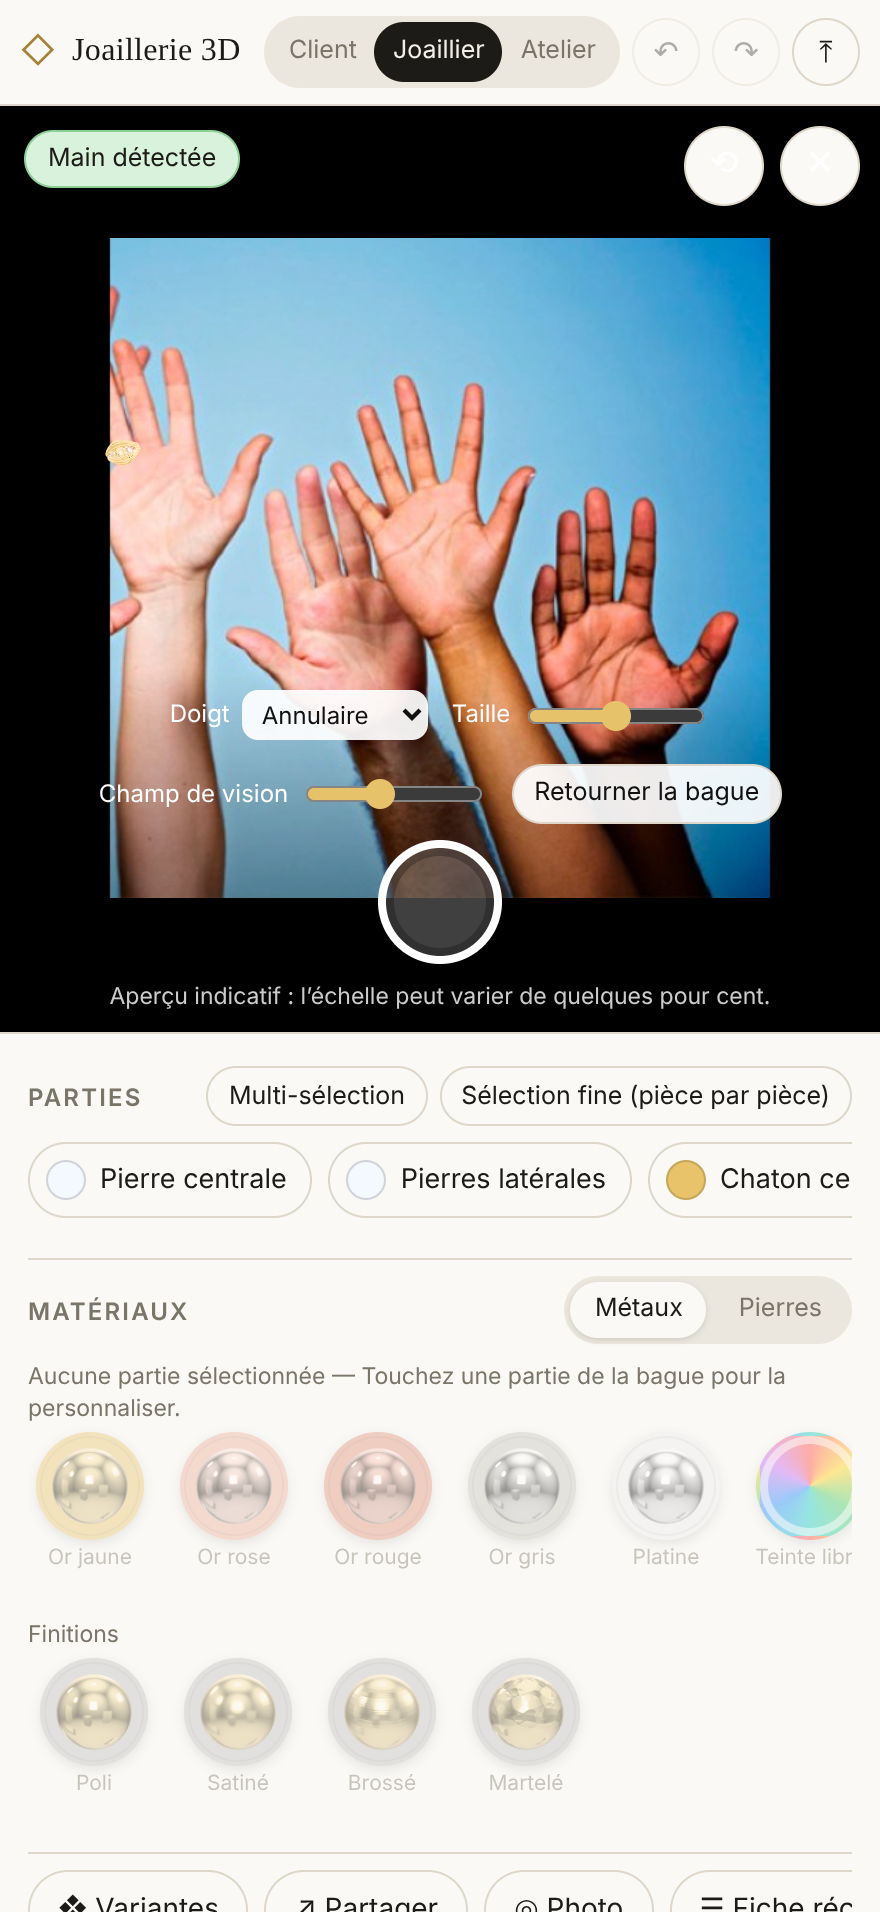
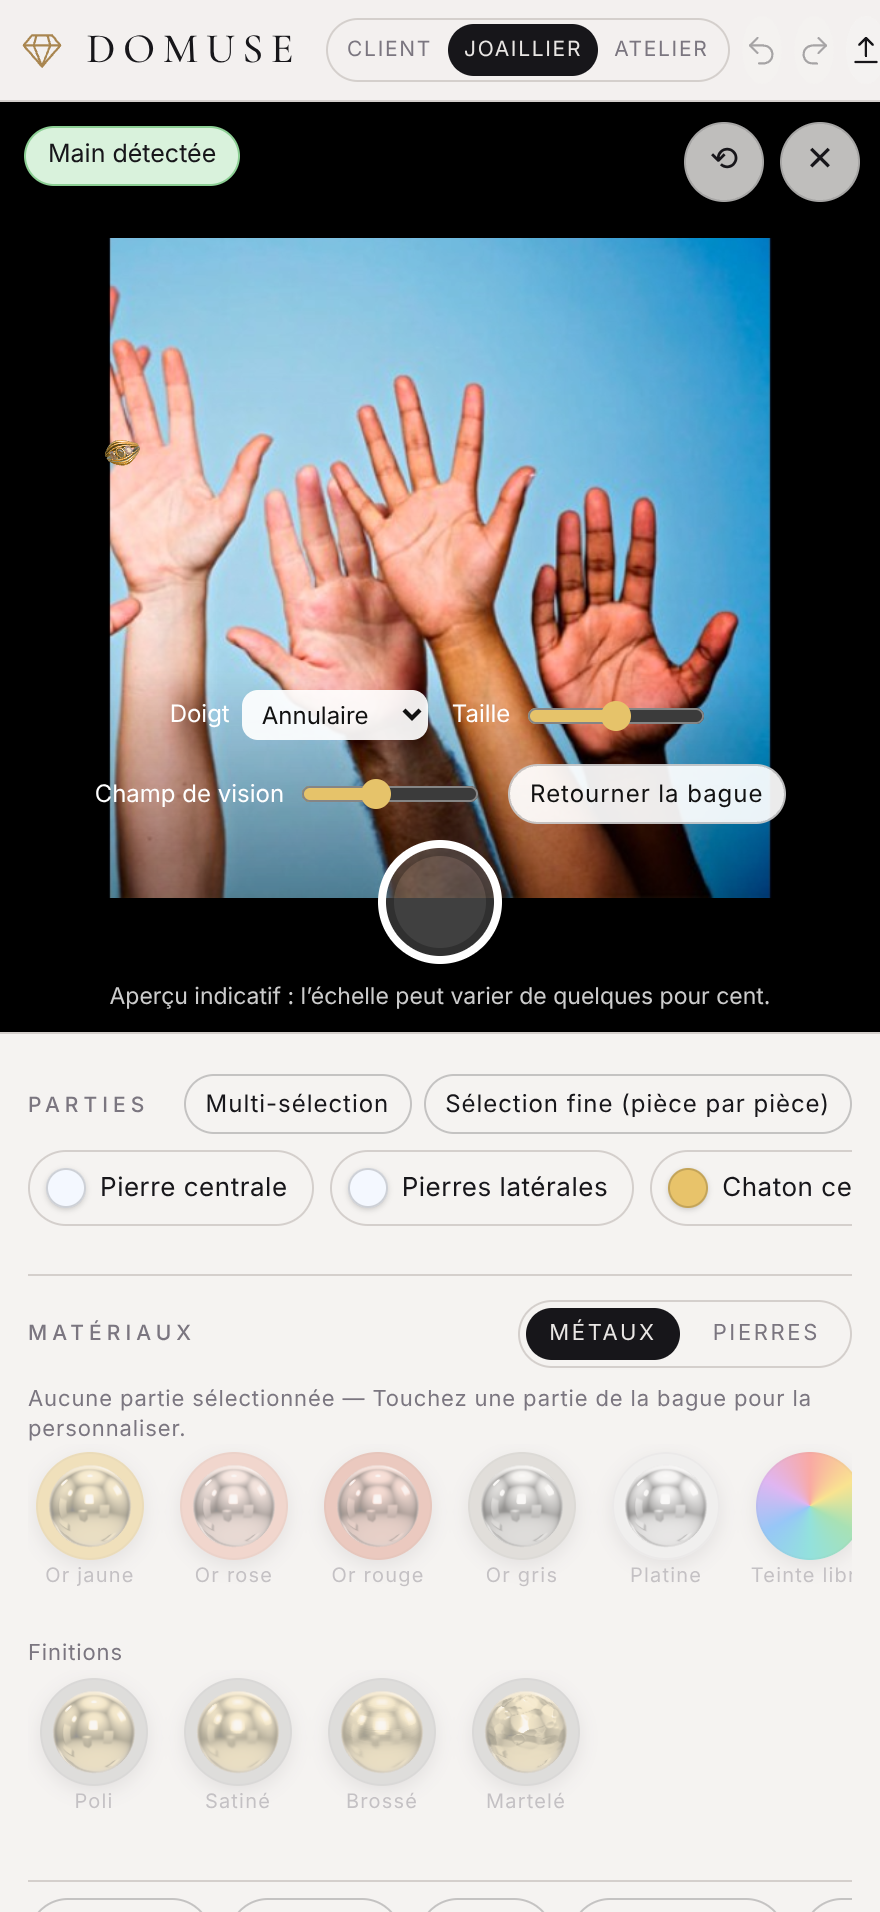
Passe chic Domuse : identité, typographie, icônes, mode client, HDRI ville plein soleil par défaut
Claude-Session: https://claude.ai/code/session_011GfdPs48k7LdCE9uPRnk2h

diff --git a/src/style.css b/src/style.css
@@ -1,21 +1,21 @@
 /* Joaillerie 3D — thème « joaillerie » : crème chaud / encre / champagne. Mobile d'abord (iPhone). */
 :root {
-  --bg: #f3efe8; --surface: #fbf9f5; --surface-2: #ece7de; --ink: #1d1b18; --muted: #7a7469;
-  --line: #ddd6c9; --accent: #a6823a; --accent-ink: #fff; --focus: #2f6bff; --danger: #b3261e;
-  --stage-a: #f7f4ee; --stage-b: #ddd5c6; --shadow: 0 6px 24px rgba(40, 30, 10, .12);
+  --bg: #e9e6e4; --surface: #f5f3f1; --surface-2: #e3dfdd; --ink: #17161a; --muted: #7b7680;
+  --line: #d4cfcc; --accent: #a98650; --accent-ink: #fff; --focus: #5b6cf0; --danger: #b3261e;
+  --stage-a: #e7e4e5; --stage-b: #b4b0b5; --shadow: 0 10px 34px rgba(30, 24, 36, .14);
   --radius: 14px; --safe-b: env(safe-area-inset-bottom, 0px); --safe-t: env(safe-area-inset-top, 0px);
-  --serif: ui-serif, 'New York', Georgia, 'Times New Roman', serif;
-  --sans: -apple-system, BlinkMacSystemFont, 'Segoe UI', system-ui, Roboto, sans-serif;
+  --serif: 'Cormorant Garamond', ui-serif, 'New York', Georgia, 'Times New Roman', serif;
+  --sans: -apple-system, BlinkMacSystemFont, 'SF Pro Text', 'Segoe UI', system-ui, Roboto, sans-serif;
 }
 @media (prefers-color-scheme: dark) {
   :root:not([data-theme='light']) {
-    --bg: #151412; --surface: #1d1b18; --surface-2: #272420; --ink: #f1ece2; --muted: #9a9385; --line: #34302a;
-    --accent: #cfa855; --accent-ink: #1a1408; --stage-a: #26231f; --stage-b: #11100e; --shadow: 0 6px 24px rgba(0, 0, 0, .5);
+    --bg: #0b0c10; --surface: #13151a; --surface-2: #1c1f26; --ink: #ece8e2; --muted: #8e8b96; --line: #262932;
+    --accent: #c9a56a; --accent-ink: #14110a; --stage-a: #2b2d34; --stage-b: #0b0c10; --shadow: 0 10px 34px rgba(0, 0, 0, .55);
   }
 }
 :root[data-theme='dark'] {
-  --bg: #151412; --surface: #1d1b18; --surface-2: #272420; --ink: #f1ece2; --muted: #9a9385; --line: #34302a;
-  --accent: #cfa855; --accent-ink: #1a1408; --stage-a: #26231f; --stage-b: #11100e; --shadow: 0 6px 24px rgba(0, 0, 0, .5);
+  --bg: #0b0c10; --surface: #13151a; --surface-2: #1c1f26; --ink: #ece8e2; --muted: #8e8b96; --line: #262932;
+  --accent: #c9a56a; --accent-ink: #14110a; --stage-a: #2b2d34; --stage-b: #0b0c10; --shadow: 0 10px 34px rgba(0, 0, 0, .55);
 }
 * { box-sizing: border-box; -webkit-tap-highlight-color: transparent; }
 html, body { margin: 0; height: 100%; background: var(--bg); color: var(--ink); font: 15px/1.4 var(--sans); overscroll-behavior: none; -webkit-text-size-adjust: 100%; }
@@ -212,4 +212,71 @@ html, body { overflow-x: hidden; }
   .brand { font-size: 16px; } .brand .mark { font-size: 17px; }
   .seg button { padding: 6px 9px; font-size: 12.5px; }
   .topbar .icon-btn { width: 34px; height: 34px; font-size: 15px; }
+}
+
+/* ================= Domuse : passe « chic » (pierre, lilas gris, or sourd, serif éditorial) ================= */
+.topbar { background: color-mix(in srgb, var(--surface) 82%, transparent); backdrop-filter: blur(14px); -webkit-backdrop-filter: blur(14px); border-bottom: 1px solid var(--line); }
+.brand { gap: 9px; align-items: baseline; }
+.brand .mark { color: var(--accent); align-self: center; }
+.brand .name { font: 500 25px/1 var(--serif); letter-spacing: .22em; text-transform: uppercase; padding-left: .1em; }
+.brand .sub { font: 400 10.5px/1 var(--sans); letter-spacing: .32em; text-transform: uppercase; color: var(--muted); align-self: center; margin-top: 3px; }
+.seg { background: transparent; border: 1px solid var(--line); padding: 2px; }
+.seg button { font-size: 11px; letter-spacing: .12em; text-transform: uppercase; padding: 7px 13px; transition: background .2s, color .2s; }
+.seg button[aria-pressed='true'] { background: var(--ink); color: var(--bg); }
+.btn { background: transparent; border: 1px solid color-mix(in srgb, var(--ink) 22%, transparent); letter-spacing: .04em; font-size: 13px; transition: background .2s, border-color .2s, color .2s; }
+.btn:hover { border-color: var(--ink); }
+.btn.primary { background: var(--ink); border-color: var(--ink); color: var(--bg); font-weight: 500; letter-spacing: .1em; text-transform: uppercase; font-size: 12px; }
+.btn.primary:hover { background: color-mix(in srgb, var(--ink) 88%, var(--accent)); }
+.btn.small { font-size: 12px; }
+.icon-btn { background: color-mix(in srgb, var(--surface) 78%, transparent); backdrop-filter: blur(8px); -webkit-backdrop-filter: blur(8px); border-color: color-mix(in srgb, var(--ink) 14%, transparent); color: var(--ink); transition: background .2s, border-color .2s; }
+.icon-btn:hover { border-color: var(--ink); }
+.icon-btn svg { display: block; }
+.topbar .icon-btn { background: transparent; border-color: transparent; }
+.topbar .icon-btn:hover { border-color: var(--line); }
+.hud-chip { font-size: 11.5px; letter-spacing: .06em; background: color-mix(in srgb, var(--surface) 70%, transparent); border-color: transparent; }
+.viewport { background: radial-gradient(120% 90% at 50% 32%, var(--stage-a), var(--stage-b)); }
+.viewport.bg-dark { background: radial-gradient(120% 90% at 50% 35%, #2b2d34, #0b0c10); }
+.panel { background: var(--surface); border-top: 1px solid var(--line); }
+.p-section { border-bottom: 1px solid var(--line); padding: 12px 0; }
+.p-head h3 { font: 500 10.5px var(--sans); letter-spacing: .24em; color: var(--muted); }
+.tabs { background: transparent; border: 1px solid var(--line); }
+.tabs button { font-size: 11px; letter-spacing: .12em; text-transform: uppercase; }
+.tabs button[aria-selected='true'] { background: var(--ink); color: var(--bg); box-shadow: none; }
+.zchip { background: transparent; border-color: var(--line); font-size: 13px; letter-spacing: .02em; transition: border-color .2s, background .2s; }
+.zchip i { border: 0; box-shadow: inset 0 0 0 1px rgba(0, 0, 0, .16), 0 1px 3px rgba(0, 0, 0, .18); }
+.zchip[aria-pressed='true'] { border-color: var(--ink); box-shadow: none; background: color-mix(in srgb, var(--accent) 12%, transparent); }
+.ball .b { border-width: 0; box-shadow: 0 3px 10px rgba(30, 24, 36, .22), inset 0 0 0 1px rgba(0, 0, 0, .06); }
+.ball span.n { font-size: 10px; letter-spacing: .06em; }
+.ball[aria-pressed='true'] .b { box-shadow: 0 0 0 2px var(--surface), 0 0 0 3.5px var(--ink); }
+.dot[aria-pressed='true'] span { box-shadow: 0 0 0 2px var(--surface), 0 0 0 3.5px var(--ink); }
+.palette-title { font-size: 11px; letter-spacing: .04em; }
+.palette-title:empty { display: none; }
+.custom { background: transparent; }
+.custom label { letter-spacing: .16em; font-size: 10.5px; }
+dialog { border-radius: 20px; }
+.dlg-h h2 { font: 500 28px var(--serif); letter-spacing: .02em; }
+.toast { background: var(--ink); color: var(--bg); letter-spacing: .02em; }
+.tryon-intro h2 { font: 500 30px var(--serif); }
+.drop { font-family: var(--serif); font-weight: 500; }
+.hint { font-size: 11.5px; letter-spacing: .08em; text-transform: uppercase; background: color-mix(in srgb, var(--surface) 70%, transparent); border-color: transparent; }
+.actions { gap: 8px; }
+.pop { border-radius: 16px; background: color-mix(in srgb, var(--surface) 94%, transparent); backdrop-filter: blur(12px); -webkit-backdrop-filter: blur(12px); }
+.pop h4 { letter-spacing: .2em; font-size: 10.5px; }
+.present-exit { font-size: 11.5px; letter-spacing: .1em; text-transform: uppercase; }
+
+/* Client : élégance minimale */
+.app[data-mode='client'] .topbar { justify-content: center; border-bottom: 0; background: transparent; padding-top: calc(16px + var(--safe-t)); padding-bottom: 6px; position: absolute; left: 0; right: 0; z-index: 4; pointer-events: none; }
+.app[data-mode='client'] .topbar > * { pointer-events: auto; }
+.app[data-mode='client'] .brand .name { font-size: 30px; }
+.app[data-mode='client'] { grid-template-rows: minmax(0, 1fr); }
+.app[data-mode='client'] .client-exit { position: absolute; right: 12px; top: calc(14px + var(--safe-t)); }
+.app[data-mode='client'] .panel { background: transparent; border-top: 0; padding-bottom: calc(18px + var(--safe-b)); }
+.app[data-mode='client'] .hud-right { top: auto; bottom: 14px; right: 12px; flex-direction: row; }
+.app[data-mode='client'] .hud-right .icon-btn { background: transparent; border-color: color-mix(in srgb, var(--ink) 20%, transparent); }
+.app[data-mode='client'] .main { grid-template-rows: minmax(0, 1fr) auto; }
+.app[data-mode='client'] .viewport { margin-top: 0; }
+@media (max-width: 520px) {
+  .brand .name { font-size: 21px; letter-spacing: .18em; }
+  .brand .sub { display: none; }
+  .seg button { padding: 6px 8px; font-size: 10.5px; letter-spacing: .08em; }
 }

diff --git a/src/ui/ui.js b/src/ui/ui.js
@@ -12,7 +12,20 @@ import { frenchRingSize } from '../import/zones.js';
 const esc = (s) => String(s).replace(/[&<>"']/g, (c) => ({ '&': '&amp;', '<': '&lt;', '>': '&gt;', '"': '&quot;', "'": '&#39;' }[c]));
 const $ = (sel, root = document) => root.querySelector(sel);
 
-const BG = { light: '#efeae1', dark: '#17161a', transparent: null };
+const BG = { light: '#d3d0d2', dark: '#16171c', transparent: null };
+
+// Icônes au trait (cohérentes, sans emoji)
+const ic = (d) => `<svg viewBox="0 0 24 24" width="18" height="18" fill="none" stroke="currentColor" stroke-width="1.5" stroke-linecap="round" stroke-linejoin="round" aria-hidden="true">${d}</svg>`;
+const ICON = {
+  views: ic('<rect x="4" y="4" width="6.5" height="6.5" rx="1"/><rect x="13.5" y="4" width="6.5" height="6.5" rx="1"/><rect x="4" y="13.5" width="6.5" height="6.5" rx="1"/><rect x="13.5" y="13.5" width="6.5" height="6.5" rx="1"/>'),
+  light: ic('<circle cx="12" cy="12" r="3.8"/><path d="M12 3v2M12 19v2M3 12h2M19 12h2M5.6 5.6 7 7M17 17l1.4 1.4M5.6 18.4 7 17M17 7l1.4-1.4"/>'),
+  rotate: ic('<path d="M20 12a8 8 0 1 1-2.7-6"/><path d="M20 4.5V9h-4.5"/>'),
+  full: ic('<path d="M4 9V4h5M20 9V4h-5M4 15v5h5M20 15v5h-5"/>'),
+  undo: ic('<path d="M9 14 4 9l5-5"/><path d="M4 9h9a6 6 0 0 1 0 12h-3"/>'),
+  redo: ic('<path d="m15 14 5-5-5-5"/><path d="M20 9h-9a6 6 0 0 0 0 12h3"/>'),
+  open: ic('<path d="M12 16V4M7.5 8.5 12 4l4.5 4.5"/><path d="M5 20h14"/>'),
+};
+const MARK = `<svg class="mark" viewBox="0 0 24 24" width="22" height="22" fill="none" stroke="currentColor" stroke-width="1.2" stroke-linejoin="round" aria-hidden="true"><path d="M6.5 4h11L22 9.5 12 21 2 9.5z"/><path d="M2 9.5h20M9 4 7.5 9.5 12 21l4.5-11.5L15 4"/></svg>`;
 
 export class UI {
   constructor(root, app, services) {
@@ -37,29 +50,29 @@ export class UI {
     this.root.innerHTML = `
     <div class="app" data-mode="${this.mode}">
       <header class="topbar">
-        <div class="brand"><span class="mark">◇</span><span>${t('app')}</span></div>
+        <div class="brand">${MARK}<span class="name">${t('app')}</span><span class="sub">Joaillerie</span></div>
         <div class="spacer"></div>
         <div class="seg" role="group" aria-label="Mode">
           <button data-mode="client">${t('modeClient')}</button>
           <button data-mode="vitrine">${t('modeVitrine')}</button>
           <button data-mode="atelier">${t('modeAtelier')}</button>
         </div>
-        <button class="btn small client-exit" data-a="exit-client">✕ ${t('exitPreview')}</button>
-        <button class="icon-btn" data-a="undo" aria-label="${t('undo')}" title="${t('undo')}">↶</button>
-        <button class="icon-btn" data-a="redo" aria-label="${t('redo')}" title="${t('redo')}">↷</button>
-        <button class="icon-btn" data-a="open" aria-label="${t('open')}" title="${t('open')}">⤒</button>
+        <button class="btn small client-exit" data-a="exit-client">${t('exitPreview')}</button>
+        <button class="icon-btn" data-a="undo" aria-label="${t('undo')}" title="${t('undo')}">${ICON.undo}</button>
+        <button class="icon-btn" data-a="redo" aria-label="${t('redo')}" title="${t('redo')}">${ICON.redo}</button>
+        <button class="icon-btn" data-a="open" aria-label="${t('open')}" title="${t('open')}">${ICON.open}</button>
       </header>
       <main class="main">
         <section class="viewport" id="viewport">
           <div class="viewer-mount"></div>
           <div class="hud-chip" data-r="info"></div>
           <div class="hud-right">
-            <button class="icon-btn" data-pop-btn="views" aria-label="${t('views')}" title="${t('views')}">◫</button>
-            <button class="icon-btn" data-pop-btn="env" aria-label="${t('environment')}" title="${t('environment')}">☀</button>
-            <button class="icon-btn" data-a="autorotate" aria-pressed="false" aria-label="${t('autoRotate')}" title="${t('autoRotate')}">⟳</button>
-            <button class="icon-btn" data-a="present" aria-pressed="false" aria-label="${t('present')}" title="${t('present')}">⛶</button>
+            <button class="icon-btn" data-pop-btn="views" aria-label="${t('views')}" title="${t('views')}">${ICON.views}</button>
+            <button class="icon-btn" data-pop-btn="env" aria-label="${t('environment')}" title="${t('environment')}">${ICON.light}</button>
+            <button class="icon-btn" data-a="autorotate" aria-pressed="false" aria-label="${t('autoRotate')}" title="${t('autoRotate')}">${ICON.rotate}</button>
+            <button class="icon-btn" data-a="present" aria-pressed="false" aria-label="${t('present')}" title="${t('present')}">${ICON.full}</button>
           </div>
-          <button class="btn present-exit" data-a="present-exit" aria-label="${t('exitPresent')}">✕ ${t('exitPresent')}</button>
+          <button class="btn present-exit" data-a="present-exit" aria-label="${t('exitPresent')}">${t('exitPresent')}</button>
           <div class="pop" data-pop="views" hidden></div>
           <div class="pop" data-pop="env" hidden></div>
           <div class="hint" data-r="hint">${t('tapHint')}</div>
@@ -92,12 +105,12 @@ export class UI {
           </div>
           <div class="p-section atelier-only" data-r="atelier"></div>
           <nav class="actions" aria-label="Actions">
-            <button class="btn" data-a="variants">❖ ${t('variants')}</button>
-            <button class="btn" data-a="share">↗ ${t('share')}</button>
-            <button class="btn" data-a="photo">◎ ${t('photo')}</button>
-            <button class="btn" data-a="recap">☰ ${t('recap')}</button>
-            <button class="btn" data-a="ar">◈ ${t('ar')}</button>
-            <button class="btn primary" data-a="tryon">☝ ${t('tryon')}</button>
+            <button class="btn" data-a="variants">${t('variants')}</button>
+            <button class="btn" data-a="share">${t('share')}</button>
+            <button class="btn" data-a="photo">${t('photo')}</button>
+            <button class="btn" data-a="recap">${t('recap')}</button>
+            <button class="btn" data-a="ar">${t('ar')}</button>
+            <button class="btn primary" data-a="tryon">${t('tryon')}</button>
           </nav>
         </aside>
       </main>

diff --git a/src/core/viewer.js b/src/core/viewer.js
@@ -58,7 +58,8 @@ export class Viewer {
     this._ro = new ResizeObserver(() => this.resize());
     this._ro.observe(container);
     this.resize();
-    this.setEnvironment('studio');
+    // reflets de base : studio immédiat, puis HDRI « ville, plein soleil » dès qu'il est chargé
+    this.setEnvironment('studio').then(() => this.setEnvironment('overpass')).catch(() => {});
     matchMedia?.('(prefers-color-scheme: dark)')?.addEventListener?.('change', () => this.bgMode === 'light' && this._applyBackground());
     this._loop = this._loop.bind(this);
     requestAnimationFrame(this._loop);
@@ -135,8 +136,8 @@ export class Viewer {
 
   _stageTexture(dark) {
     const css = getComputedStyle(document.documentElement);
-    const a = dark ? '#34312c' : (css.getPropertyValue('--stage-a').trim() || '#f7f4ee');
-    const b = dark ? '#0c0b0a' : (css.getPropertyValue('--stage-b').trim() || '#ddd5c6');
+    const a = dark ? '#2b2d34' : (css.getPropertyValue('--stage-a').trim() || '#e7e4e5');
+    const b = dark ? '#0b0c10' : (css.getPropertyValue('--stage-b').trim() || '#b4b0b5');
     const c = document.createElement('canvas');
     c.width = 512; c.height = 512;
     const g = c.getContext('2d');

diff --git a/index.html b/index.html
@@ -3,16 +3,16 @@
 <head>
   <meta charset="utf-8">
   <meta name="viewport" content="width=device-width, initial-scale=1, viewport-fit=cover, maximum-scale=1">
-  <meta name="theme-color" content="#f3efe8">
+  <meta name="theme-color" content="#e9e6e4">
   <meta name="mobile-web-app-capable" content="yes">
   <meta name="apple-mobile-web-app-capable" content="yes">
   <meta name="apple-mobile-web-app-status-bar-style" content="default">
-  <meta name="apple-mobile-web-app-title" content="Joaillerie 3D">
-  <meta name="description" content="Configurateur 3D de bijoux : importez un modèle, changez les matériaux en temps réel, essayez la bague sur votre main.">
+  <meta name="apple-mobile-web-app-title" content="Domuse">
+  <meta name="description" content="Domuse, joaillerie — configurez votre bague en 3D, changez métaux et pierres en temps réel, essayez-la sur votre main.">
   <link rel="manifest" href="./manifest.webmanifest">
   <link rel="apple-touch-icon" href="./icons/icon-180.png">
   <link rel="icon" href="./icons/icon-192.png">
-  <title>Joaillerie 3D</title>
+  <title>Domuse</title>
 </head>
 <body>
   <div id="app"></div>

diff --git a/src/ui/i18n.js b/src/ui/i18n.js
@@ -1,6 +1,6 @@
 // Textes externalisés. FR par défaut, EN prévu (navigator.language).
 const fr = {
-  app: 'Joaillerie 3D',
+  app: 'Domuse',
   open: 'Ouvrir un fichier',
   modeAtelier: 'Atelier', modeVitrine: 'Joaillier', modeClient: 'Client',
   customColor: 'Teinte libre', hue: 'Teinte', intensity: 'Intensité', lightness: 'Clarté', hexLabel: 'Code couleur',
@@ -49,7 +49,7 @@ const fr = {
   errorFormat: 'Format non reconnu. Formats acceptés : FBX, GLB/GLTF, OBJ.',
   errorGeneric: 'Impossible de lire ce fichier.',
   webgl: 'Votre navigateur ne supporte pas WebGL2.',
-  onboardTitle: 'Bienvenue', onboardBody: 'Faites tourner la bague avec un doigt, pincez pour zoomer, touchez une partie pour changer son matériau.',
+  onboardTitle: 'Bienvenue chez Domuse', onboardBody: 'Faites tourner la bague avec un doigt, pincez pour zoomer, touchez une partie pour changer son matériau.',
   gotIt: 'Compris',
   pieces: 'pièces', triangles: 'triangles',
 };

diff --git a/src/materials/factory.js b/src/materials/factory.js
@@ -109,7 +109,7 @@ export function createMaterial(kind, a) {
   const m = new THREE.MeshPhysicalMaterial({ color: p.color, metalness: 1, roughness: p.roughness, envMapIntensity: 1.2 });
   m.anisotropy = p.anisotropy;
   m.normalMap = metalNormal(p);
-  m.normalScale.set(p.brushed ? 0.1 : 0.6, p.brushed ? 0.1 : 0.6);
+  m.normalScale.set(p.brushed ? 0.04 : 0.6, p.brushed ? 0.04 : 0.6);
   return m;
 }
 
@@ -150,7 +150,7 @@ export function transitionMaterial(material, kind, a, { duration = 200, onTick, 
     const p = metalParams(a);
     material.anisotropy = p.anisotropy;
     material.normalMap = metalNormal(p);
-    material.normalScale.set(p.brushed ? 0.1 : 0.6, p.brushed ? 0.1 : 0.6);
+    material.normalScale.set(p.brushed ? 0.04 : 0.6, p.brushed ? 0.04 : 0.6);
     material.needsUpdate = true;
     toColor = p.color; toRough = p.roughness;
   }

diff --git a/src/core/environments.js b/src/core/environments.js
@@ -9,9 +9,9 @@ export const ENVIRONMENTS = [
   { id: 'studio', name: 'Atelier', group: 'studio' },
   { id: 'softbox', name: 'Softbox', group: 'studio' },
   { id: 'daylight', name: 'Jour', group: 'studio' },
+  { id: 'overpass', name: 'Ville, plein soleil', group: 'hdri', url: 'hdr/overpass.hdr' },
   { id: 'venice', name: 'Coucher de soleil', group: 'hdri', url: 'hdr/venice-sunset.hdr' },
   { id: 'quarry', name: 'Ciel couvert', group: 'hdri', url: 'hdr/quarry.hdr' },
-  { id: 'overpass', name: 'Ville, plein soleil', group: 'hdri', url: 'hdr/overpass.hdr' },
   { id: 'spruit', name: 'Aube', group: 'hdri', url: 'hdr/spruit-sunrise.hdr' },
 ];
 

diff --git a/src/main.js b/src/main.js
@@ -1,4 +1,7 @@
 // Point d'entrée : crée le configurateur, l'interface, charge la bague de démo (ou le fichier demandé).
+import '@fontsource/cormorant-garamond/latin-400.css';
+import '@fontsource/cormorant-garamond/latin-500.css';
+import '@fontsource/cormorant-garamond/latin-600.css';
 import './style.css';
 import * as THREE from 'three';
 import { Configurator } from './app.js';

diff --git a/DECISIONS.md b/DECISIONS.md
@@ -25,3 +25,8 @@
 - **Modes** : Client (épuré : vue 3D, rotation, plein écran, AR, essayage, photo ; aucune sélection ni réglage), Joaillier (configuration), Atelier (zones/règles). Le « lien client » (`k:1` dans le lien) verrouille l'interface en mode client.
 - **Compatibilité** : anciens identifiants (gold18, sapphire…) convertis automatiquement dans les liens et projets existants.
 - **Limite connue** : un lien ne transporte que la configuration, pas le fichier 3D. Pour un modèle propre au joaillier (FBX), le client doit pouvoir le charger : prochaine étape = « Publier » (hébergement du modèle côté Netlify) pour obtenir un lien client court.
+
+## Itération 4 : passe « chic » Domuse
+- **Identité** : nom Domuse (logo au trait + wordmark Cormorant Garamond espacé), palette pierre / lilas gris / or sourd, mode sombre bleu-nuit (inspiré du compte Instagram de la joaillerie : fonds gris doux, pierres profondes). Polices embarquées via @fontsource (pas de requête externe).
+- **Interface** : icônes au trait à la place des emojis, boutons fins, bouton principal encre, intitulés en petites capitales espacées, mode client sans barre : logo centré + trois actions.
+- **Rendu** : éclairage par défaut = HDRI « Ville, plein soleil » (le studio s'affiche le temps du chargement) ; fond de scène gris pierre. Brossé : relief très léger pour éviter l'effet quadrillé en gros plan.
